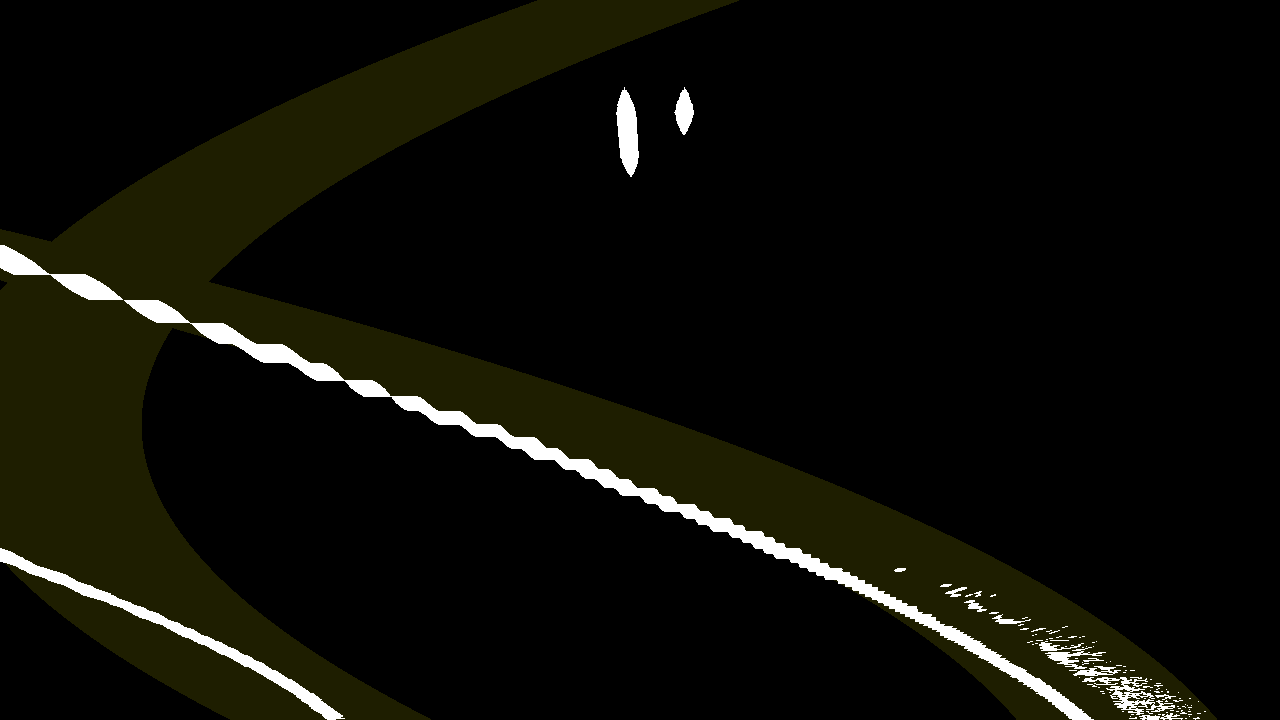
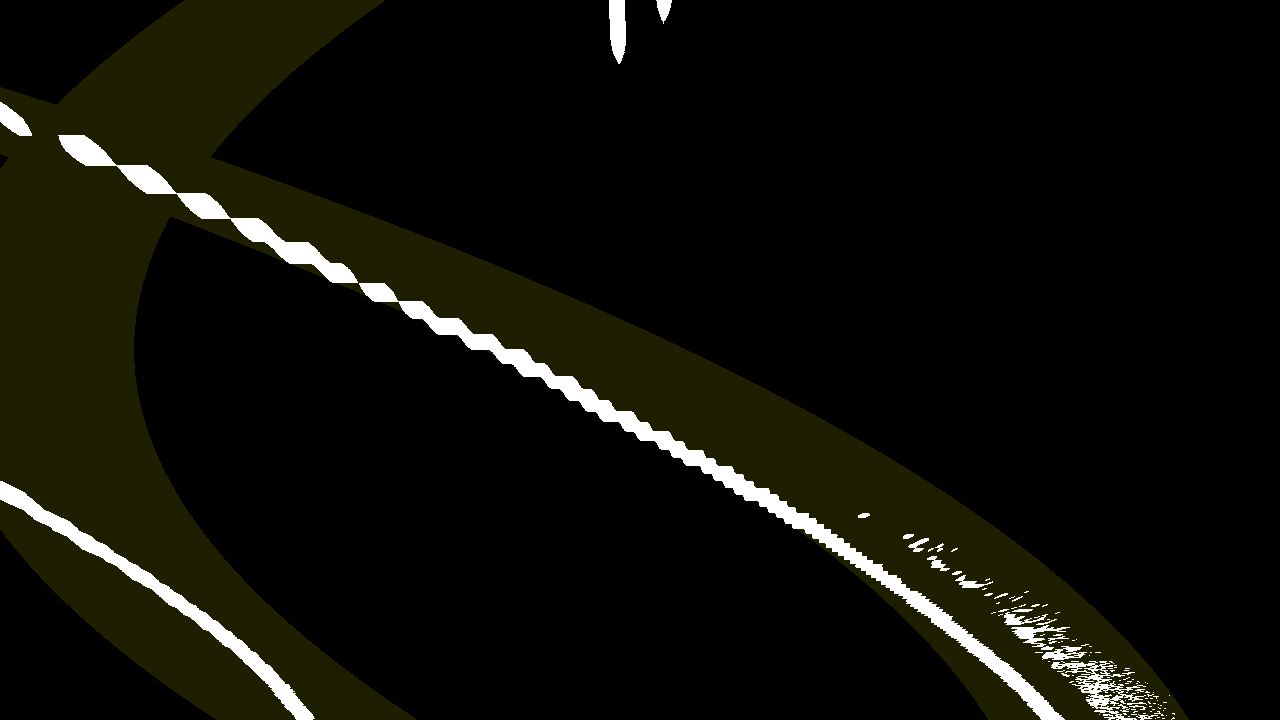
new test img and pos settings, measure curvature

diff --git a/BeamADAS_Processor/main.py b/BeamADAS_Processor/main.py
@@ -11,6 +11,9 @@ import os
 img = cv2.imread('.\\test_curve_1.png')
 img2 = cv2.imread('.\\test_curve_2.png')
 
+# img = cv2.imread('.\\test_img.png')
+# img2 = cv2.imread('.\\test_img.png')
+
 def birdeye_view(img):
     img_size = (img.shape[1], img.shape[0])
     offset = 300
@@ -18,10 +21,10 @@ def birdeye_view(img):
     # Source points taken from images with straight lane lines, these are to become parallel after the warp transform
     # Needs to be updated with accurate lane coordinates
     src = np.array([
-        (355, 555), # bottom-left corner
-        (625, 365), # top-left corner
-        (655, 365), # top-right corner
-        (875, 555) # bottom-right corner
+        (390, 545), # bottom-left corner
+        (619, 367), # top-left corner
+        (662, 367), # top-right corner
+        (883, 545) # bottom-right corner
     ], dtype='f')
     dst = np.array([
         [offset, img_size[1]],             # bottom-left corner
@@ -97,7 +100,7 @@ def detect_lane_lines(binary_birdeye):
     left_base = np.argmax(histogram[:midpoint])
     right_base = np.argmax(histogram[midpoint:]) + midpoint
 
-    nwindows = 20
+    nwindows = 15
     margin = 100 
     minpix = 50
 
@@ -141,7 +144,7 @@ def detect_lane_lines(binary_birdeye):
         left_lane = np.concatenate(left_lane)
         right_lane = np.concatenate(right_lane)
     except ValueError:
-        pass
+        exit("No lines detected!")
 
     return nonzerox[left_lane], nonzeroy[left_lane], nonzerox[right_lane], nonzeroy[right_lane] # type: ignore
 
@@ -194,8 +197,8 @@ leftx, lefty, rightx, righty = detect_lane_lines(binary_birdeye)
 left_fit, right_fit, left_fitx, right_fitx, ploty = fit_poly(binary_birdeye, leftx, lefty, rightx, righty)
 out_img = draw_poly_lines(binary_birdeye, left_fitx, right_fitx, ploty)
 plt.imsave("birdeye_lines_detected.png", out_img)
-plt.imshow(out_img)
-plt.show()
+# plt.imshow(out_img)
+# plt.show()
 
 prev_left_fit, prev_right_fit = left_fit, right_fit
 
@@ -227,4 +230,24 @@ leftx, lefty, rightx, righty = find_lane_pixels_using_prev_poly(binary_birdeye_2
 left_fit, right_fit, left_fitx, right_fitx, ploty = fit_poly(binary_birdeye_2, leftx, lefty, rightx, righty)
 out_img = draw_poly_lines(binary_birdeye_2, left_fitx, right_fitx, ploty)
 plt.imsave("birdeye_lines_detected_2.png", out_img)
+
+def measure_curvature(left_fitx, right_fitx, ploty):
+    # Define meters per pixel
+    ym_ppx = 30/720
+    xm_ppx = 3.7/700
+
+    left_fit_cr = np.polyfit(ploty * ym_ppx, left_fitx * xm_ppx, 2)
+    right_fit_cr = np.polyfit(ploty * ym_ppx, right_fitx * xm_ppx, 2)
+
+    y_eval = np.max(ploty)
+
+    # Calculate curve radius
+    left_curverad = ((1 + (2*left_fit_cr[0]*y_eval*ym_ppx + left_fit_cr[1])**2)**1.5) / np.absolute(2*left_fit_cr[0])
+    right_curverad = ((1 + (2*right_fit_cr[0]*y_eval*ym_ppx + right_fit_cr[1])**2)**1.5) / np.absolute(2*right_fit_cr[0])
+
+    return left_curverad, right_curverad
+
+left_curve, right_curve = measure_curvature(left_fitx, right_fitx, ploty)
+print('Left curve: ' + str(left_curve) + '; Right curve: ' + str(right_curve))
+    
 # todo
